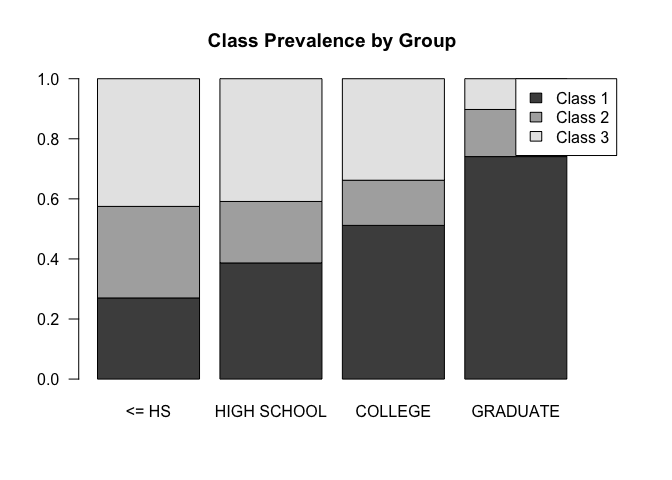
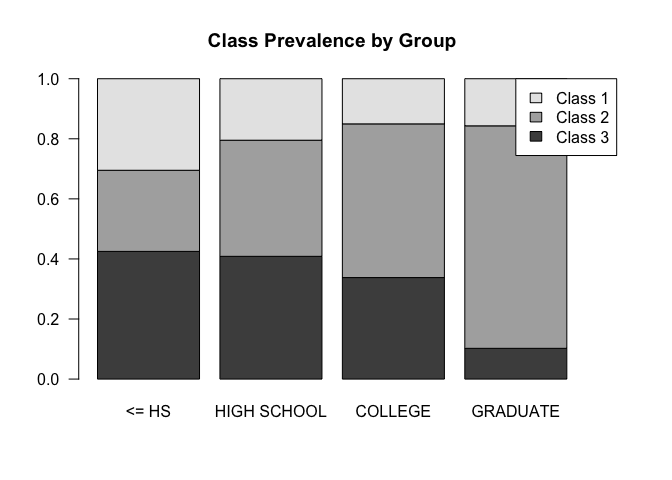
README plot outwidth = 0.49

Changed region(s): [[0.125, 0.2188, 0.8438, 0.75], [0.7812, 0.1875, 0.8125, 0.2188]]

diff --git a/README.md b/README.md
@@ -56,7 +56,7 @@ summary(lca)
 #> 
 #> Mean Prevalence for latent classes for each group:
 #>     Class 1 Class 2 Class 3
-#> ALL 0.44226  0.1947 0.36303
+#> ALL 0.36303 0.44226  0.1947
 #> 
 #> Number of parameters : 20 
 #> 
@@ -77,17 +77,22 @@ summary(lca)
 #> Estimated model parameters :
 #> Gamma :
 #>     Class 1 Class 2 Class 3
-#> ALL  0.4423  0.1947   0.363
+#> ALL   0.363  0.4423  0.1947
 #> 
 #> Rho (Y = 1) :
 #>         DEFECT   HLTH   RAPE   POOR SINGLE NOMORE
-#> Class 1 0.9845 1.0000 0.9901 0.9431 0.9394 0.9984
-#> Class 2 0.0626 0.4481 0.0622 0.0000 0.0000 0.0157
-#> Class 3 0.8281 0.9782 0.8522 0.1114 0.0514 0.0985
+#> Class 1 0.8281 0.9782 0.8522 0.1114 0.0514 0.0985
+#> Class 2 0.9845 1.0000 0.9901 0.9431 0.9394 0.9983
+#> Class 3 0.0626 0.4481 0.0622 0.0000 0.0000 0.0157
+#> Rho (Y = 2) :
+#>         DEFECT   HLTH   RAPE   POOR SINGLE NOMORE
+#> Class 1 0.1719 0.0218 0.1478 0.8886 0.9486 0.9015
+#> Class 2 0.0155 0.0000 0.0099 0.0569 0.0606 0.0017
+#> Class 3 0.9374 0.5519 0.9378 1.0000 1.0000 0.9843
 plot(lca)
 ```
 
-<img src="figures/README-example-1.png" width="100%" /><img src="figures/README-example-2.png" width="100%" />
+<img src="figures/README-example-1.png" width="49%" /><img src="figures/README-example-2.png" width="49%" />
 
 ``` r
 
@@ -105,10 +110,10 @@ summary(mglca)
 #> 
 #> Mean Prevalence for latent classes for each group:
 #>             Class 1 Class 2 Class 3
-#> <= HS       0.27011 0.30478 0.42511
-#> HIGH SCHOOL 0.38661 0.20473 0.40865
-#> COLLEGE     0.51168 0.15034 0.33797
-#> GRADUATE    0.74073 0.15688 0.10239
+#> <= HS       0.30479 0.27011 0.42510
+#> HIGH SCHOOL 0.20474 0.38661 0.40865
+#> COLLEGE     0.15035 0.51168 0.33797
+#> GRADUATE    0.15689 0.74073 0.10239
 #> 
 #> Number of parameters : 26 
 #> Number of groups : 4 
@@ -130,20 +135,25 @@ summary(mglca)
 #> Estimated model parameters :
 #> Gamma :
 #>             Class 1 Class 2 Class 3
-#> <= HS        0.2701  0.3048  0.4251
-#> HIGH SCHOOL  0.3866  0.2047  0.4087
-#> COLLEGE      0.5117  0.1503  0.3380
-#> GRADUATE     0.7407  0.1569  0.1024
+#> <= HS        0.3048  0.2701  0.4251
+#> HIGH SCHOOL  0.2047  0.3866  0.4086
+#> COLLEGE      0.1503  0.5117  0.3380
+#> GRADUATE     0.1569  0.7407  0.1024
 #> 
 #> Rho (Y = 1) :
 #>         DEFECT   HLTH   RAPE   POOR SINGLE NOMORE
-#> Class 1 0.9848 1.0000 0.9902 0.9451 0.9417 0.9978
-#> Class 2 0.0715 0.4612 0.0699 0.0000 0.0000 0.0175
-#> Class 3 0.8348 0.9792 0.8592 0.1139 0.0527 0.1015
+#> Class 1 0.0715 0.4613 0.0699 0.0000 0.0000 0.0175
+#> Class 2 0.9848 1.0000 0.9902 0.9451 0.9417 0.9978
+#> Class 3 0.8348 0.9792 0.8592 0.1140 0.0527 0.1015
+#> Rho (Y = 2) :
+#>         DEFECT   HLTH   RAPE   POOR SINGLE NOMORE
+#> Class 1 0.9285 0.5387 0.9301 1.0000 1.0000 0.9825
+#> Class 2 0.0152 0.0000 0.0098 0.0549 0.0583 0.0022
+#> Class 3 0.1652 0.0208 0.1408 0.8860 0.9473 0.8985
 plot(mglca)
 ```
 
-<img src="figures/README-example-3.png" width="100%" /><img src="figures/README-example-4.png" width="100%" />
+<img src="figures/README-example-3.png" width="49%" /><img src="figures/README-example-4.png" width="49%" />
 
 ``` r
 
@@ -161,10 +171,10 @@ summary(mglcr)
 #> 
 #> Mean Prevalence for latent classes for each group:
 #>             Class 1 Class 2 Class 3
-#> <= HS       0.31364 0.41709 0.26926
-#> HIGH SCHOOL 0.21045 0.40375 0.38580
-#> COLLEGE     0.15513 0.33333 0.51154
-#> GRADUATE    0.16203 0.09758 0.74040
+#> <= HS       0.26926 0.41709 0.31364
+#> HIGH SCHOOL 0.38580 0.40375 0.21045
+#> COLLEGE     0.51154 0.33333 0.15513
+#> GRADUATE    0.74040 0.09758 0.16203
 #> 
 #> Number of parameters : 28 
 #> Number of groups : 4 
@@ -187,62 +197,37 @@ summary(mglcr)
 #> Beta :
 #> Intercepts :
 #>                    Class 1/3 Class 2/3
-#> Group :<= HS         -0.0910    0.5249
-#> Group :HIGH SCHOOL   -0.8701    0.1416
-#> Group :COLLEGE       -1.4714   -0.3260
-#> Group :GRADUATE      -1.7669   -1.9376
+#> Group :<= HS          0.0910    0.6159
+#> Group :HIGH SCHOOL    0.8701    1.0117
+#> Group :COLLEGE        1.4714    1.1454
+#> Group :GRADUATE       1.7669   -0.1707
 #> 
 #> Coefficients :
 #> Class 1/3 Class 2/3 
-#>    0.4293   -0.1774 
+#>   -0.4293   -0.6067 
 #> 
 #> Rho (Y = 1) :
 #>         DEFECT   HLTH   RAPE   POOR SINGLE NOMORE
-#> Class 1 0.0803 0.4714 0.0793 0.0000 0.0000 0.0190
+#> Class 1 0.9848 1.0000 0.9902 0.9457 0.9422 0.9981
 #> Class 2 0.8424 0.9811 0.8662 0.1164 0.0544 0.1030
-#> Class 3 0.9848 1.0000 0.9902 0.9457 0.9422 0.9981
+#> Class 3 0.0803 0.4714 0.0793 0.0000 0.0000 0.0190
+#> Rho (Y = 2) :
+#>         DEFECT   HLTH   RAPE   POOR SINGLE NOMORE
+#> Class 1 0.0152 0.0000 0.0098 0.0543 0.0578 0.0019
+#> Class 2 0.1576 0.0189 0.1338 0.8836 0.9456 0.8970
+#> Class 3 0.9197 0.5286 0.9207 1.0000 1.0000 0.9810
 coef(mglcr)
-#> Intercept :
-#> 
-#> Group <= HS:
-#>             Odds Ratio Coefficient  Std. Error  t value  Pr(>|t|)  
-#> Class 1 / 3    0.91301    -0.09101     0.30770   -0.296    0.7675  
-#> Class 2 / 3    1.69034     0.52493     0.27985    1.876    0.0613 .
-#> ---
-#> Signif. codes:  0 '***' 0.001 '**' 0.01 '*' 0.05 '.' 0.1 ' ' 1
-#> 
-#> Group HIGH SCHOOL:
-#>             Odds Ratio Coefficient  Std. Error  t value  Pr(>|t|)    
-#> Class 1 / 3     0.4189     -0.8701      0.2437   -3.570  0.000392 ***
-#> Class 2 / 3     1.1521      0.1416      0.1713    0.827  0.408879    
-#> ---
-#> Signif. codes:  0 '***' 0.001 '**' 0.01 '*' 0.05 '.' 0.1 ' ' 1
-#> 
-#> Group COLLEGE:
-#>             Odds Ratio Coefficient  Std. Error  t value  Pr(>|t|)    
-#> Class 1 / 3     0.2296     -1.4714      0.2901   -5.073   5.6e-07 ***
-#> Class 2 / 3     0.7218     -0.3260      0.2061   -1.582     0.114    
-#> ---
-#> Signif. codes:  0 '***' 0.001 '**' 0.01 '*' 0.05 '.' 0.1 ' ' 1
-#> 
-#> Group GRADUATE:
-#>             Odds Ratio Coefficient  Std. Error  t value  Pr(>|t|)    
-#> Class 1 / 3     0.1709     -1.7669      0.3932   -4.493  8.80e-06 ***
-#> Class 2 / 3     0.1441     -1.9376      0.4819   -4.021  6.73e-05 ***
-#> ---
-#> Signif. codes:  0 '***' 0.001 '**' 0.01 '*' 0.05 '.' 0.1 ' ' 1
-#> 
 #> Coefficients :
 #> 
 #> Class 1 / 3 :
 #>           Odds Ratio Coefficient  Std. Error  t value  Pr(>|t|)    
-#> SEXFEMALE    1.53615     0.42928     0.05974    7.186  2.55e-12 ***
+#> SEXFEMALE    0.65098    -0.42928     0.05974   -7.186  2.55e-12 ***
 #> ---
 #> Signif. codes:  0 '***' 0.001 '**' 0.01 '*' 0.05 '.' 0.1 ' ' 1
 #> 
 #> Class 2 / 3 :
 #>           Odds Ratio Coefficient  Std. Error  t value  Pr(>|t|)    
-#> SEXFEMALE    0.83744    -0.17740     0.04866   -3.646  0.000296 ***
+#> SEXFEMALE    0.54516    -0.60668     0.06391   -9.493    <2e-16 ***
 #> ---
 #> Signif. codes:  0 '***' 0.001 '**' 0.01 '*' 0.05 '.' 0.1 ' ' 1
 
@@ -267,8 +252,8 @@ summary(mlca)
 #> 
 #> Mean Prevalence for latent classes:
 #>           Class 1 Class 2 Class 3
-#> Cluster 1 0.00877 0.06129 0.92994
-#> Cluster 2 0.14126 0.34985 0.50889
+#> Cluster 1 0.00877 0.92994 0.06129
+#> Cluster 2 0.14125 0.50889 0.34985
 #> 
 #> 
 #> Number of parameters : 20 
@@ -294,18 +279,23 @@ summary(mlca)
 #> 
 #> Gamma :
 #>           Class 1 Class 2 Class 3
-#> Cluster 1  0.0088  0.0613  0.9299
-#> Cluster 2  0.1413  0.3499  0.5089
+#> Cluster 1  0.0088  0.9299  0.0613
+#> Cluster 2  0.1413  0.5089  0.3499
 #> 
 #> Rho (Y = 1) :
 #>          ECIGT ECIGAR   ESLT EELCIGT EHOOKAH
 #> Class 1 0.9120 0.9755 0.5621  0.9776  0.5345
-#> Class 2 0.3436 0.1970 0.1265  0.7780  0.0439
-#> Class 3 0.0062 0.0043 0.0086  0.0405  0.0057
+#> Class 2 0.0062 0.0043 0.0086  0.0405  0.0057
+#> Class 3 0.3436 0.1970 0.1265  0.7780  0.0439
+#> Rho (Y = 2) :
+#>          ECIGT ECIGAR   ESLT EELCIGT EHOOKAH
+#> Class 1 0.0880 0.0245 0.4379  0.0224  0.4655
+#> Class 2 0.9938 0.9957 0.9914  0.9595  0.9943
+#> Class 3 0.6564 0.8030 0.8735  0.2220  0.9561
 plot(mlca)
 ```
 
-<img src="figures/README-example-5.png" width="100%" /><img src="figures/README-example-6.png" width="100%" />
+<img src="figures/README-example-5.png" width="49%" /><img src="figures/README-example-6.png" width="49%" />
 
 ``` r
 
@@ -320,27 +310,27 @@ summary(mlcr)
 #>     SCH_LEV, group = SCH_ID, data = nyts18, nclass = 3, ncluster = 2, 
 #>     verbose = FALSE)
 #> 
-#> Model : Multilevel LCA with Covariates 
+#> Model : Multilevel LCA 
 #> Number of latent classes : 3 
 #> Number of latent clusters : 2 
 #> 
 #> Mean Prevalence for latent clusters:
 #> Cluster 1 Cluster 2 
-#>   0.44638   0.55362 
+#>   0.55456   0.44544 
 #> 
 #> Mean Prevalence for latent classes:
 #>           Class 1 Class 2 Class 3
-#> Cluster 1 0.58757 0.11855 0.29388
-#> Cluster 2 0.88265 0.02161 0.09574
+#> Cluster 1 0.02188 0.09646 0.88166
+#> Cluster 2 0.11841 0.29383 0.58776
 #> 
 #> 
-#> Number of parameters : 22 
+#> Number of parameters : 20 
 #> Number of groups : 45 
 #> 
-#> log-likelihood : -1930.752 
-#>      G-squared : 710.2738 
-#>            AIC : 3905.503 
-#>            BIC : 4025.634
+#> log-likelihood : -1931.009 
+#>      G-squared : 710.6992 
+#>            AIC : 3902.018 
+#>            BIC : 4011.285
 #> 
 #> Response numbering:
 #>         Y = 1 Y = 2
@@ -353,54 +343,44 @@ summary(mlcr)
 #> Estimated model parameters :
 #> Delta :
 #> Cluster 1 Cluster 2 
-#>    0.4464    0.5536 
+#>    0.5546    0.4454 
 #> 
 #> Beta (level 1) :
 #> $Cluster1
-#>                    Class 1/3 Class 2/3
-#> (Intercept)           1.6793   -1.4687
-#> SCH_LEVHigh School   -1.9399    0.7066
+#>             Class 1/3 Class 2/3
+#> (Intercept)   -2.1964   -0.9525
 #> 
 #> $Cluster2
-#>                    Class 1/3 Class 2/3
-#> (Intercept)           2.9074   -1.9555
-#> SCH_LEVHigh School   -1.9399    0.7066
+#>             Class 1/3 Class 2/3
+#> (Intercept)   -0.4899    0.2716
 #> 
+#> Beta (level 2) :
+#>                    Class 1/3 Class 2/3
+#> SCH_LEVHigh School   -2.6632   -1.9514
 #> 
 #> Rho (Y = 1) :
 #>          ECIGT ECIGAR   ESLT EELCIGT EHOOKAH
-#> Class 1 0.0034 0.0037 0.0072  0.0352  0.0056
-#> Class 2 0.8959 0.9690 0.5382  0.9779  0.5014
-#> Class 3 0.3144 0.1631 0.1187  0.7292  0.0388
+#> Class 1 0.8957 0.9687 0.5377  0.9780  0.5007
+#> Class 2 0.3131 0.1623 0.1183  0.7280  0.0387
+#> Class 3 0.0033 0.0037 0.0071  0.0347  0.0056
+#> Rho (Y = 2) :
+#>          ECIGT ECIGAR   ESLT EELCIGT EHOOKAH
+#> Class 1 0.1043 0.0313 0.4623  0.0220  0.4993
+#> Class 2 0.6869 0.8377 0.8817  0.2720  0.9613
+#> Class 3 0.9967 0.9963 0.9929  0.9653  0.9944
 coef(mlcr)
-#> Intercept :
 #> 
-#> Cluster 1 :
-#>             Odds Ratio Coefficient  Std. Error  t value  Pr(>|t|)    
-#> Class 1 / 3     5.3620      1.6793      0.3924    4.280  1.99e-05 ***
-#> Class 2 / 3     0.2302     -1.4687      0.6269   -2.343    0.0193 *  
-#> ---
-#> Signif. codes:  0 '***' 0.001 '**' 0.01 '*' 0.05 '.' 0.1 ' ' 1
-#> 
-#> Cluster 2 :
-#>             Odds Ratio Coefficient  Std. Error  t value  Pr(>|t|)    
-#> Class 1 / 3    18.3086      2.9074      0.4662    6.237  5.84e-10 ***
-#> Class 2 / 3     0.1415     -1.9555      0.9124   -2.143    0.0323 *  
-#> ---
-#> Signif. codes:  0 '***' 0.001 '**' 0.01 '*' 0.05 '.' 0.1 ' ' 1
-#> 
-#> 
-#> Level 1 Coefficients :
+#> Level 2 Coefficients :
 #> 
 #> Class 1 / 3 :
 #>                    Odds Ratio Coefficient  Std. Error  t value  Pr(>|t|)    
-#> SCH_LEVHigh School     0.1437     -1.9399      0.2192    -8.85    <2e-16 ***
+#> SCH_LEVHigh School    0.06972    -2.66324     0.61681   -4.318  1.69e-05 ***
 #> ---
 #> Signif. codes:  0 '***' 0.001 '**' 0.01 '*' 0.05 '.' 0.1 ' ' 1
 #> 
 #> Class 2 / 3 :
-#>                    Odds Ratio Coefficient  Std. Error  t value  Pr(>|t|)  
-#> SCH_LEVHigh School     2.0270      0.7066      0.3474    2.034    0.0422 *
+#>                    Odds Ratio Coefficient  Std. Error  t value  Pr(>|t|)    
+#> SCH_LEVHigh School     0.1421     -1.9514      0.4369   -4.467  8.58e-06 ***
 #> ---
 #> Signif. codes:  0 '***' 0.001 '**' 0.01 '*' 0.05 '.' 0.1 ' ' 1
 ```
